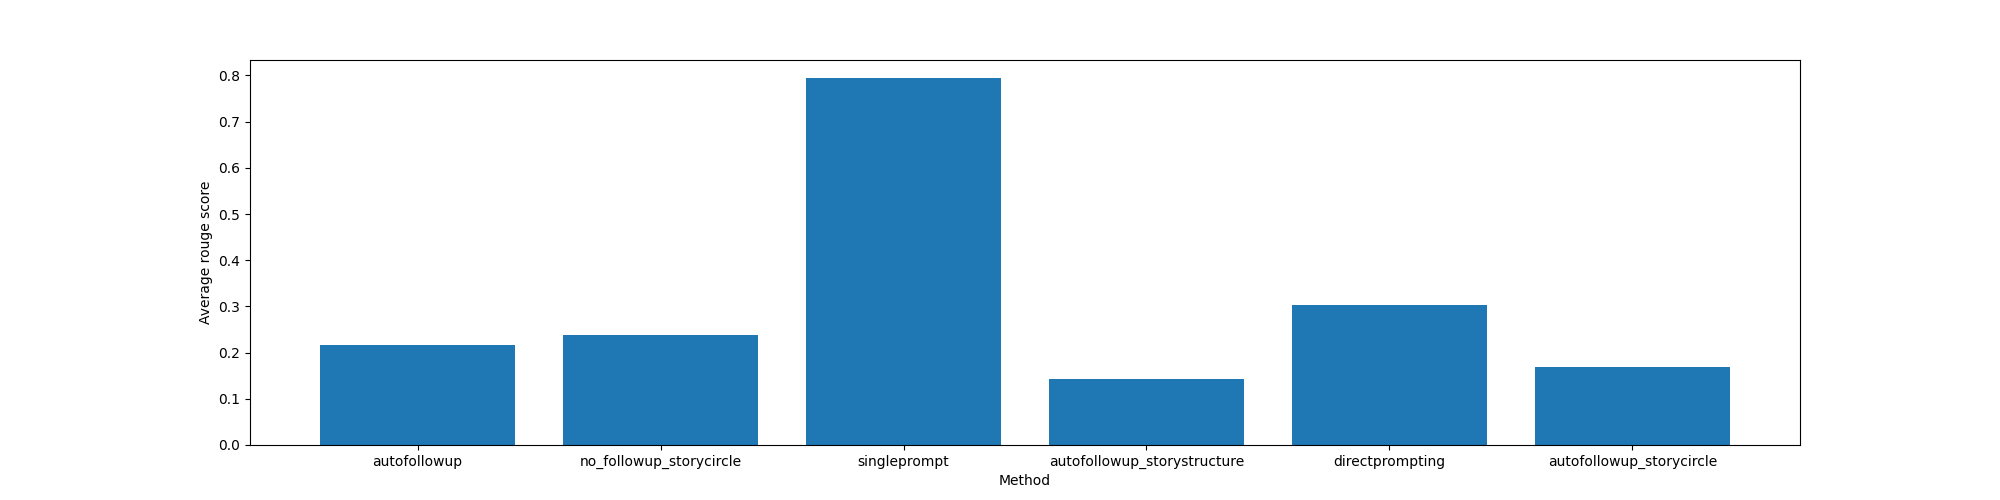
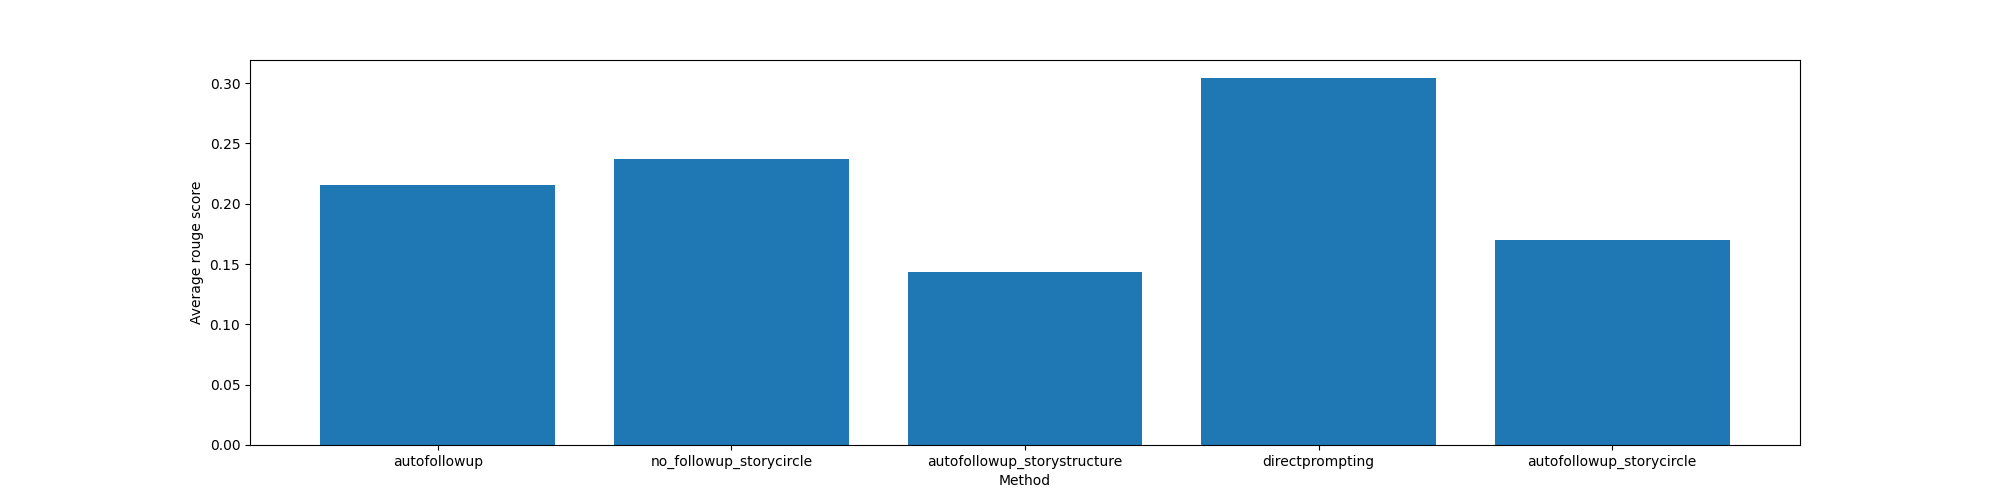
No single prompt

diff --git a/rouge_plot.py b/rouge_plot.py
@@ -14,6 +14,8 @@ for filename in os.listdir(directory1):
     f = os.path.join(directory1, filename)
     # checking if it is a file
     if os.path.isfile(f):
+        if("singleprompt" in f):
+            continue
         avg_by_metric = {}  
         rouge_by_idea = 0
         # rouge_by_metric = 0
